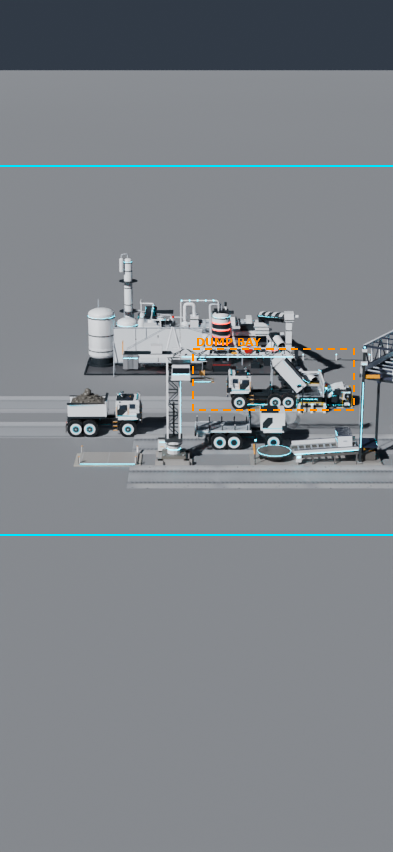
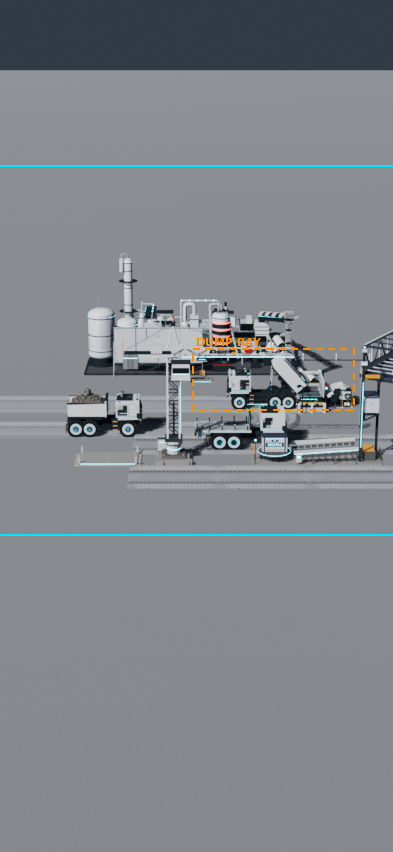
10/24/2026 - planet-stack - 01:46

diff --git a/art/3d/buildings/refinery/_src/build_bridge.py b/art/3d/buildings/refinery/_src/build_bridge.py
@@ -342,18 +342,16 @@ def run_frac(t, d, T=None):
 def smooth(x): x = min(max(x, 0.0), 1.0); return x * x * (3 - 2 * x)
 def dist(a, b): return (Vector(b) - Vector(a)).length
 TURN = 1.0; SETTLE = 0.087; DWELL = 3.0      # v5: ~1 s ease-in-out table turn 90 -> 0, done 0.087 s before Pickup arrival / RC-1 cycle start
-V_LOW, V_UP = 2.0, 3.0                       # v5 lift carriage: down with the box, back up empty
-T_ARR_TARGET = 33.887             # v3 arrival kept (box_path 33.9 s, box_convey 38 s, phase 12.667 s); the hidden rise in the south shaft takes up the slack
+V_LOW, V_UP = 1.0, 3.0                       # v5.1 (Director option B): heavy lift moves slowly: down with the box at <= 1.0 m/s, back up empty at 3 m/s (both eased)
+T_ARR_TARGET = 33.887             # v3 arrival kept (box_path 33.9 s); the hidden rise in the south shaft takes up the slack
 T_LOW = run_time(dist(P2, P3), V_LOW)
 _t = run_time(dist(P1, P2)) + T_LOW + run_time(dist(P3, P4)) + TURN + SETTLE
 T_RISE = T_ARR_TARGET - _t
-assert run_time(dist(P0, P1)) - 1e-6 < T_RISE < 12.6, T_RISE   # never faster than 1.5 m/s; out of the shaft before the next box appears (phase 12.667)
+assert run_time(dist(P0, P1)) - 1e-6 < T_RISE, T_RISE   # never faster than 1.5 m/s
 SEG = [('rise', P0, P1, T_RISE), ('bridge', P1, P2, run_time(dist(P1, P2))), ('lower', P2, P3, T_LOW),
        ('ground_conveyor', P3, P4, run_time(dist(P3, P4))), ('table_turn', P4, P4, TURN), ('settle', P4, P4, SETTLE)]
 T_ARR = sum(s[3] for s in SEG)                    # arrival on Pickup_Point
 T_PATH = T_ARR + DWELL
-CLIP = round(math.ceil(T_PATH + 0.6), 1)
-OFF = CLIP / 3.0
 ANG = math.degrees(math.atan2(LOW_Y - PICK[1], X0 - XTE))
 def chute_pitch(xc):             # +deg = nose (-x end) down while the box straddles the tip-down kinks
     xa, xb = XTE, X0
@@ -393,8 +391,18 @@ def car_dy_box(t):                # carriage offset below the top (<= 0) on one 
     if t < b: return -H * run_frac(t - a, H, b - a)
     if t < c: return -H
     return -H + H * run_frac(t - c, H, d - c)
-APPROACH = (GW + BHZ + CAR_HZ) / V + 1.0     # conservative: the next box can reach the carriage's shaft at most this long before its 'lower' starts
-assert T_CAR[3] - T_CAR[0] + APPROACH < 38.0 / 3.0, (T_CAR, APPROACH)    # carriage back at the top before the next box (phase 12.667 s) arrives
+# single-carriage cycle: the carriage must be at the top (and stay there) from the moment a box's plan OBB comes within CAR_MARGIN of the
+# carriage deck (T_ENTER, on the span) until it rides down; it is free again when it is back at the top after the empty return.
+CAR_MARGIN = 0.05
+_b0, _b1 = EVF['bridge']
+T_ENTER = next(t for t in (_b0 + k / 1000.0 for k in range(int((_b1 - _b0) * 1000) + 2))
+               if abs(route(t)[0][0] - P2[0]) < BHX + CAR_HX + CAR_MARGIN and abs(route(t)[0][2] - P2[2]) < BHZ + CAR_HZ + CAR_MARGIN)
+QUEUE_S = dist(route(T_ENTER)[0], P2)                       # distance back from the lift centre (along the span) where a box must stop to queue
+CYCLE = T_CAR[3] - T_ENTER                                   # minimum start-to-start gap of two boxes on this timeline
+CLIP = float(math.ceil(3 * CYCLE))                           # box_convey: shortest whole-second loop that fits 3 boxes
+OFF = CLIP / 3.0
+assert OFF >= CYCLE and T_RISE < OFF and T_PATH + 0.3 < CLIP, (CYCLE, OFF, T_RISE)
+print('CYCLE %.3f wait %.3f down %.3f rolloff %.3f up %.3f queue_s %.3f enter %.3f' % (CYCLE, T_CAR[0] - T_ENTER, T_CAR[1] - T_CAR[0], T_CAR[2] - T_CAR[1], T_CAR[3] - T_CAR[2], QUEUE_S, T_ENTER))
 EV['lift_carriage'] = {'down': [round(T_CAR[0], 3), round(T_CAR[1], 3)], 'up': [round(T_CAR[2], 3), round(T_CAR[3], 3)]}
 EV['dwell'] = [round(T_ARR, 3), round(T_PATH, 3)]
 DIST = {name: round(dist(a, b), 3) for name, a, b, d in SEG}
@@ -491,6 +499,16 @@ arm['clearance'] = {'deck_underside_y': UND, 'lowest_vertex_over_lanes_y': 7.249
                     'game_view': 'Refinery camera (313.1, 2.08, 13.55), frame_w 37.5: no bridge vertex inside the dump bay / Truck_Dump / hopper / intake outline (gap >= 6.3 px at 393x852, 10.6 px at 375x667); lowerator fully on screen (right spare 10.3 px / 8.2 px; box in the lift 11.5 / 8.5 px); whole Refinery + bridge + crane top / bottom spare 64.2 / 70.9 px at 393x852, 10.2 / 13.8 px at 375x667; the span beyond it and the south tower run off the right edge',
                     'crane': 'every part of the bridge above y 3.0 is >= 16.9 m from the RC-1 mast (311, 17.5), far outside the 11.25 m jib tip. Inside that radius only the pickup table, the west end of the ground conveyor, end stop, lamp (top y 2.53, z 18.8) and control box, all at or below the box top under the hook path.'}
 arm['draws'] = 4
+_qp = REF(route(T_ENTER)[0])
+arm['carriage_cycle'] = {'min_box_start_gap_s': round(CYCLE, 2), 'breakdown_s': {'wait_for_box': round(T_CAR[0] - T_ENTER, 3), 'descent': round(T_CAR[1] - T_CAR[0], 3),
+                         'roll_off': round(T_CAR[2] - T_CAR[1], 3), 'empty_return': round(T_CAR[3] - T_CAR[2], 3)},
+                         'carriage_needed_from_s': round(T_ENTER, 3), 'carriage_free_at_s': round(T_CAR[3], 3), 'box_convey_phase_s': round(OFF, 3),
+                         'queue_point_refinery_xyz': [round(_qp[0], 2), round(_qp[1], 2), round(_qp[2], 2)], 'queue_back_from_lift_centre_m': round(QUEUE_S, 3),
+                         'note': ('One carriage serves every box. Box_N+1 may start its timeline no sooner than min_box_start_gap_s after Box_N (box_convey uses phase_s). '
+                                  'wait_for_box = from the box coming within %.2f m (plan) of the carriage deck at the top until it is centred and the descent starts. '
+                                  'If boxes come faster, hold the next box on the span rollers with its centre >= queue_back_from_lift_centre_m back from the lift centre '
+                                  '(at or before queue_point_refinery_xyz, box on the end of the span conveyor, base y 8.1) until carriage_free_at_s of the previous box, then '
+                                  'resume its timeline; never let a box onto the lowerator while the carriage is below the top.') % CAR_MARGIN}
 arm['clips'] = {'box_convey': {'duration_s': CLIP, 'loop': True, 'boxes': 3, 'phase_s': round(OFF, 3), 'speed_mps': V, 'lowerator_descent_mps': V_LOW, 'ramp_s': TA,
                                'per_box_events_s': EV, 'pickup_arrive_s': round(T_ARR, 3), 'hidden_after_s': round(T_PATH + 0.05, 3),
                                'note': 'Box_N runs this timeline shifted by (N-1)*phase_s: rises hidden in the south shaft, crosses the bridge, rides the lift carriage down the open lowerator, rides the ground conveyor west (all end-on, yaw 90), turns to yaw 0 on the pickup turntable (table_turn, 1 s ease-in-out) and settles on Pickup_Point, waits dwell, then scales to 0 (show the crane box from Pickup_Point at that moment).'},

diff --git a/art/3d/buildings/refinery/refinery_bridge.md b/art/3d/buildings/refinery/refinery_bridge.md
@@ -1,7 +1,10 @@
-# CV-3 Refinery Box Bridge — `refinery_bridge.glb` (v5)
+# CV-3 Refinery Box Bridge — `refinery_bridge.glb` (v5.1)
+
+v5.1 is the Director's option B retime of v5. Geometry and camera are unchanged. The heavy lift now moves slowly: the box and carriage come down the visible lowerator at **≤ 1.0 m/s, eased in and out**. The hidden rise is shorter to keep the 33.887 s arrival, and `box_convey` is now **44 s** so the single carriage is back at the top before each next box.
+
 
 v5 is the Director's option A: **the box rides end-on (yaw 90, long axis along z) the whole way and turns to yaw 0 only on the pickup turntable.**
-1. The box turns end-on while hidden in the south lift shaft, then rises (12.4 s, hidden).
+1. The box turns end-on while hidden in the south lift shaft, then rises (9.06 s, hidden).
 2. It crosses the −32° span lengthwise. The span is 2.7 m between the guides (box + 0.15 m a side). The walkway was dropped to make room.
 3. It rides a **moving lift carriage** down the open two-post lowerator in the **flatbed median at Refinery (9.0, 17.5)**. The frame is 2.08 × 3.16 m (box + 0.15 m a side).
 4. It rolls west, still end-on, along the 2.7 m-wide **ground conveyor** to the **3.05 m pickup turntable**.
@@ -45,30 +48,53 @@ This file stands on its own. Do not merge it into `refinery_game.glb`.
   - `Pickup_Point`
 
 ## Clips
-The clip lengths and the pickup arrival time are the same as v4.
-- **`box_convey`**, 38.0 s loop. Three boxes, 12.667 s apart, at 1.5 m/s on the rollers with 1 s eased starts and stops. Timeline for one box:
-  - 0–12.399 s: `rise`, hidden in the south shaft. The box is held scaled to 0 for the first 0.25 s, so gltfpack's 10 Hz resample never shows a growing box.
-  - 12.399–21.653 s: `bridge`, 12.38 m, end-on.
-  - 21.653–25.993 s: `lower`, 6.68 m on the carriage, up to 2 m/s.
-  - 25.993–32.8 s: `ground_conveyor`, 8.71 m west, end-on.
-  - 32.8–33.8 s: `table_turn`, 90°→0° smoothstep.
-  - 33.8–33.887 s: `settle`.
-  - 33.887–36.887 s: `dwell`.
-  - Hidden from 36.937 s.
-  - `lift_carriage`: down 21.653–25.993 s, back up 27.44–30.667 s (3 m/s). It is at the top again before the next box arrives.
-  - Coder: start the RC-1 cycle at 33.89 s plus the box offset. RC-1 latches 0.9–1.3 s into its cycle (34.79–35.19 s), so the turn has finished 0.99 s before the latch.
-- **`box_path`**, 33.9 s, no loop. A single box (Box_1, scrubbable): time = progress × duration. It uses the same events and ends on `Pickup_Point` at yaw 0. The carriage moves with it.
-- **`roller_spin`**, 0.4 s loop. 18 roller bones. Surface speed is about 1.41 m/s.
+`box_path` keeps the 33.887 s arrival. `box_convey` is stretched to 44 s for the slow lift.
+
+Timeline for one box (both clips):
+
+| stretch | time (s) | length | peak speed |
+|---|---|---|---|
+| `rise` (hidden in the south shaft) | 0–9.059 | 6.9 m | 0.86 m/s |
+| `bridge` (end-on) | 9.059–18.313 | 12.38 m | 1.5 m/s |
+| `lower` (on the carriage) | 18.313–25.993 | 6.68 m | **1.0 m/s**, held 19.31–24.99 s (box base y 7.6 → 1.9) |
+| `ground_conveyor` (end-on) | 25.993–32.8 (unchanged) | 8.71 m | 1.5 m/s |
+| `table_turn` | 32.8–33.8 | 90° → 0° smoothstep | 135°/s at mid-turn |
+| `settle` | 33.8–33.887 | | |
+| `dwell` | 33.887–36.887 | | |
+
+- Every move eases over 1 s (cubic ramp), so speed never jumps. The largest box acceleration is 2.25 m/s².
+- `lift_carriage`: down with the box 18.313–25.993 s at ≤ 1.0 m/s. It waits at the bottom until the box has rolled clear, then returns up empty 27.44–30.667 s, eased, peak 3.0 m/s.
+- RC-1: start the cycle at 33.89 s plus the box offset. It latches 0.9–1.3 s into the cycle (34.79–35.19 s), so the turn is done 0.99 s before the latch.
+
+- **`box_convey`**, **44.0 s** loop. Three boxes, 14.667 s apart. Each box is hidden at the infeed for the first 0.25 s and again from 36.937 s. The first and last keys match on every channel, so the loop is clean.
+- **`box_path`**, 33.9 s, no loop. A single box (Box_1, scrubbable): time = progress × duration. It ends on `Pickup_Point` at yaw 0. The carriage moves with it, and Box_2 and Box_3 are scaled to 0.
+- **`roller_spin`**, 0.4 s loop. 18 roller bones, surface speed about 1.41 m/s.
+
+### Single-carriage cycle (also in the `carriage_cycle` extras)
+Box N+1 must start its timeline **at least 14.64 s** after box N. The breakdown:
+- **Wait for the box, 2.286 s.** The carriage must be at the top from the moment the box comes within 0.05 m (in plan) of the carriage deck (16.027 s) until the box is centred and the descent starts (18.313 s).
+- **Descent, 7.680 s.**
+- **Roll-off, 1.447 s.** This runs until the box is 0.05 m clear of the carriage.
+- **Empty return, 3.227 s.** The carriage is free at 30.667 s.
+
+`box_convey` uses 14.667 s, which leaves 0.027 s of slack.
+
+If boxes come faster than this:
+- Hold the next box on the **span conveyor**, with its centre at least **2.68 m back from the lift centre**: at or before Refinery (10.42, 8.1, 15.23), base y 8.1.
+- Keep it there until the previous box's carriage is back at the top (30.667 s on that box's timeline), then resume its timeline.
+- Never let a box onto the lowerator while the carriage is below the top.
+- Further boxes can queue behind it on the span, at least 2.9 m centre to centre (the box is 2.75 m long along the span, plus a gap), or wait hidden in the south shaft.
 
 ## Clip check (`proofs/refinery_bridge_clipcheck.json`)
-The check runs every frame at 30 Hz over the full 33.9 s `box_path` and over the 38 s `box_convey` loop (all three boxes):
+The check runs every frame at 30 Hz over the full 33.9 s `box_path` and over the 44 s `box_convey` loop (all three boxes):
 - Each box's OBB is fitted per frame to its skinned vertices.
 - Each OBB is tested against every real triangle within 0.5 m: static mesh, rollers, lift carriage and the other boxes.
 - Distances are exact triangle-to-OBB. Geometry below the box base + 3 cm counts as support.
 
 Results:
 - **0 frames touching.**
-- **Minimum clearance 0.119 m.** It occurs at t 22.6 s, as the box starts down the lowerator beside the west end of the truss (y ≈ 7.25).
+- **0 frames with a box over the open shaft without the carriage under it.**
+- **Minimum clearance 0.119 m.** It occurs at t 19.7 s, as the box starts down the lowerator beside the west end of the truss (y ≈ 7.25).
 - Per-segment minimum clearance (m):
 
   | rise | bridge | lower | ground_conveyor | table_turn | settle |
@@ -80,11 +106,11 @@ Results:
 
 ## Budget
 - 3,752 tris, 4 draws: `Bridge_Static` and `Bridge_Moving` with SHM_Paint + SHM_GlowCyan each.
-- 69,712 B.
+- 71,244 B.
 - Extensions: KHR_mesh_quantization and EXT_meshopt_compression only. No Draco, images, textures, transmission, clearcoat or ior.
 
 ## Game view (Cam_Target (313.1, 2.08, 13.55), frame_w 37.5; camera unchanged)
-All numbers are edge-sampled over every clip sample (`proofs/refinery_bridge_dumpbay_check.json`). The dump bay outline is drawn orange in the proofs.
+All numbers are edge-sampled over every clip sample (re-measured for v5.1: unchanged) (`proofs/refinery_bridge_dumpbay_check.json`). The dump bay outline is drawn orange in the proofs.
 
 | | 393×852 | 375×667 |
 |---|---|---|
@@ -100,7 +126,7 @@ The v4 edge-sampled numbers, for comparison: 393 gap 3.5 px, lowerator right 1.4
 - Build: `blender -b -P _src/build_bridge.py -- raw.glb [--box /tmp/cargo_box_plain.glb]`. The env vars `BR_LX` (lowerator centre x, default 9.0), `BR_EE` (span end set-back, default 1.6) and `BR_LOWDUMP` (dump the lift-section polygons as JSON). Make the box input with `gltfpack -i art/3d/props/cargo_box/cargo_box_game.glb -o /tmp/cargo_box_plain.glb -noq -kn -ke`.
 - Pack: `gltfpack -i raw.glb -o refinery_bridge.glb -cc -kn -ke -af 10`.
 - Proofs: `_src/render_bridge_proofs.py` (`--phone` for the game camera, `--clip box_convey|box_path`).
-  - `proofs/refinery_bridge_393x852.png` and `_375x667.png`: box_convey at t 28 s, with band lines and the dump bay outline.
-  - `_before_after.png`: v4 (613e1c9) vs v5 at both sizes, 2× size.
+  - `proofs/refinery_bridge_393x852.png` and `_375x667.png`: box_convey at t 22 s (box on the carriage, mid-descent), with band lines and the dump bay outline. For v5.1 these are light Eevee renders (16 samples) because of the render hold. A Cycles re-render is queued.
+  - `_before_after.png`: v5 (3eb9b42, t 28) vs v5.1 (t 22) at both sizes, 2× size.
   - `_clipcheck.json`: the 30 Hz box-vs-geometry clip check (box_path and box_convey).
   - `_closeup_4k.png` is **still the v1 image**. A v5 4K close-up is queued until the shared box is free (QA until about 1:50 AM PT).
